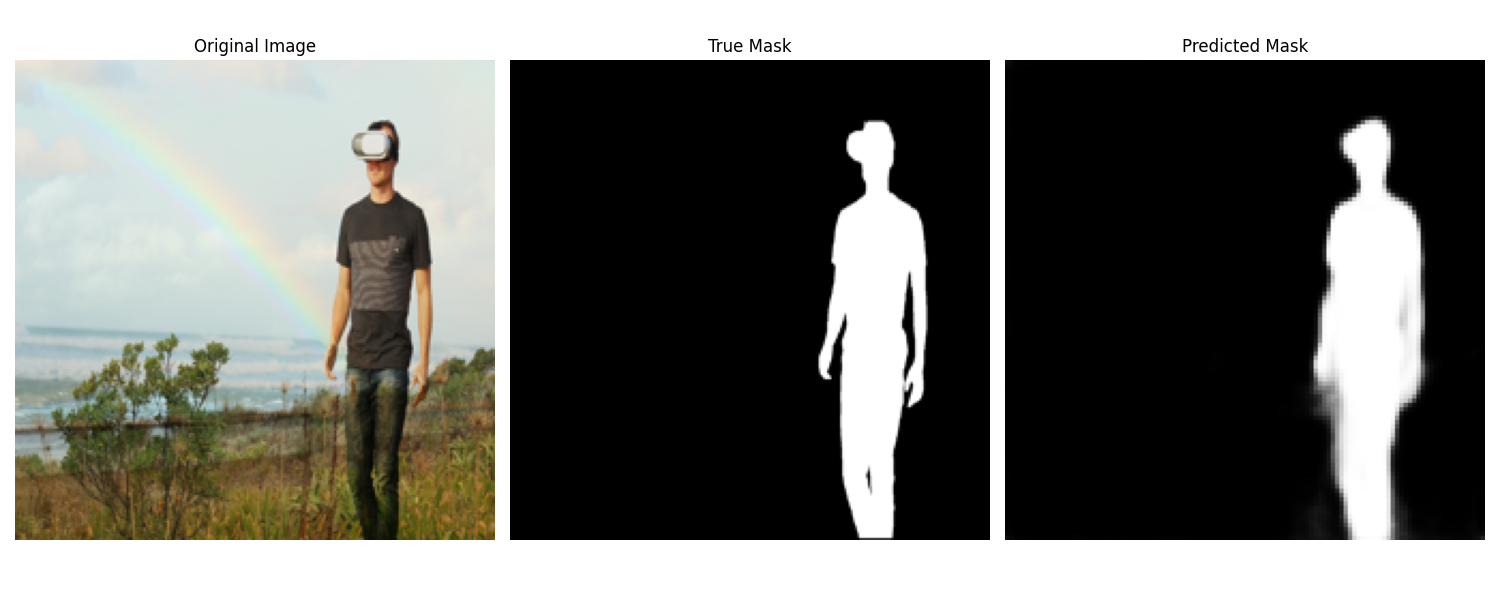
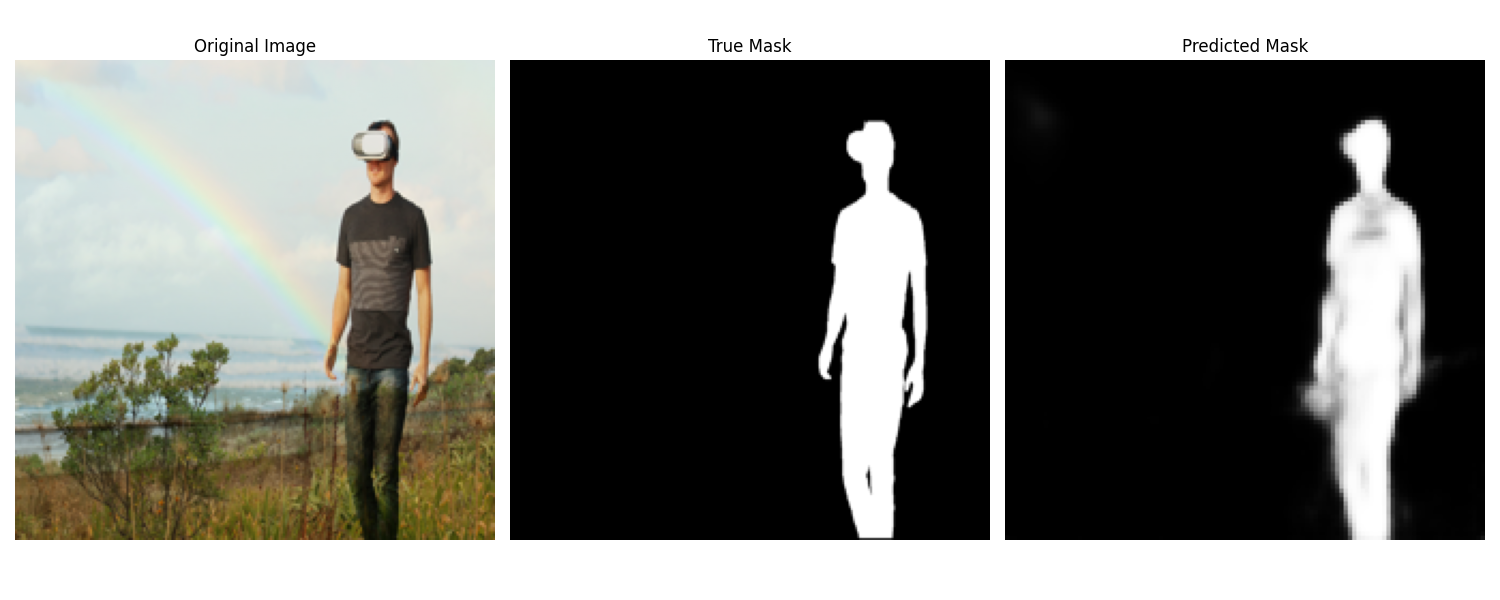
created heatmap images

Changed region(s): [[0.8587, 0.42, 0.9507, 0.9], [0.8587, 0.21, 0.9507, 0.45]]

diff --git a/models/rf_model.py b/models/rf_model.py
@@ -51,3 +51,33 @@ print("\nTraining Accuracy: ", train_accuracy)
 print("Testing Accuracy: ", test_accuracy)
 print("Training IoU: ", train_iou)
 print("Testing IoU: ", test_iou)
+
+# plotting and saving original image, true make, predicted mask for image segmentation mask
+def plot_rf_result(image, true_mask, predicted_mask, folder, index):
+    fig, axes = plt.subplots(1, 3, figsize=(15, 6))
+    axes[0].imshow(image.reshape(224, 224, 3))
+    axes[0].set_title("Original Image")
+    axes[0].axis("off")
+    
+    axes[1].imshow(true_mask.reshape(224, 224), cmap="gray")
+    axes[1].set_title("True Mask")
+    axes[1].axis("off")
+    
+    axes[2].imshow(predicted_mask.reshape(224, 224), cmap="gray")
+    axes[2].set_title("Predicted Mask")
+    axes[2].axis("off")
+    
+    plt.tight_layout()
+    plt.savefig(os.path.join(folder, f"rf_result_{index}.png"))
+    plt.close()
+
+# grabbing an example from test set
+sample_index = 0
+sample_image = X_test[sample_index]
+sample_true_mask = y_test[sample_index]
+
+# predict mask
+sample_pred_mask = rf_model.predict(sample_image.reshape(1, -1))
+
+# plot and save
+plot_rf_result(sample_image, sample_true_mask, sample_pred_mask, "rf_results", sample_index)
